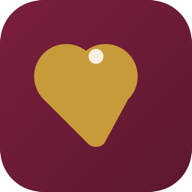
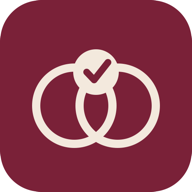
Add files via upload

diff --git a/index.html b/index.html
@@ -19,7 +19,7 @@
   <!-- ============ SETUP SCREEN (shown until js/config.js is filled in) ============ -->
   <div id="screen-setup" class="screen center-screen" hidden>
     <div class="auth-card">
-      <div class="auth-logo">💍</div>
+      <div class="auth-logo"><img src="Icons/logo-mark-transparent.svg" alt="" /></div>
       <h1>One-time setup needed</h1>
       <p class="hint">This app needs a (free) Firebase project to sync your guest list across devices.</p>
       <ol class="help-list">
@@ -37,7 +37,7 @@
   <!-- ============ AUTH SCREEN ============ -->
   <div id="screen-auth" class="screen center-screen" hidden>
     <div class="auth-card">
-      <div class="auth-logo">💍</div>
+      <div class="auth-logo"><img src="Icons/logo-mark-transparent.svg" alt="" /></div>
       <h1>Wedding Guest List</h1>
       <p class="hint" id="authSubtitle">Sign in to your family's guest list</p>
 
@@ -95,7 +95,7 @@
   <div id="screen-app" class="screen" hidden>
     <header class="app-header">
       <div class="brand">
-        <span class="brand-mark">❤</span>
+        <img class="brand-logo" src="icon.svg" alt="" />
         <span class="brand-text" id="brandText">Guest List</span>
         <span class="offline-dot" id="offlineDot" title="Offline — changes will sync later" hidden></span>
       </div>

diff --git a/styles.css b/styles.css
@@ -40,6 +40,7 @@ input,select,textarea,button{font-family:inherit;font-size:16px}
 }
 @keyframes fadeUp{from{opacity:0;transform:translateY(12px)}to{opacity:1;transform:translateY(0)}}
 .auth-logo{font-size:44px;margin-bottom:6px}
+.auth-logo img{width:72px;height:72px;display:inline-block}
 .auth-card h1{font-size:23px;margin:0 0 6px;font-weight:800}
 .auth-card form{display:flex;flex-direction:column;gap:10px;margin-top:16px}
 .auth-card input{padding:13px 15px;border:1px solid var(--line);border-radius:12px;background:#fff;width:100%}
@@ -65,7 +66,7 @@ input,select,textarea,button{font-family:inherit;font-size:16px}
 }
 .brand{display:flex;align-items:center;gap:8px;font-weight:700;font-size:17px;min-width:0}
 .brand-text{white-space:nowrap;overflow:hidden;text-overflow:ellipsis}
-.brand-mark{color:var(--gold)}
+.brand-logo{width:26px;height:26px;border-radius:7px;display:block;flex:0 0 auto}
 .header-count{font-size:12px;opacity:.9;white-space:nowrap}
 .offline-dot{width:9px;height:9px;border-radius:50%;background:var(--amber);flex:0 0 auto;box-shadow:0 0 0 3px rgba(201,138,22,.25)}
 

diff --git a/sw.js b/sw.js
@@ -6,7 +6,7 @@
    - Firebase/Google endpoints → NOT intercepted. Firestore has its own offline
      persistence; interfering with auth/firestore requests breaks them.
 */
-const CACHE = 'guest-list-v2';
+const CACHE = 'guest-list-v3';
 const JSPDF_URL = 'https://cdnjs.cloudflare.com/ajax/libs/jspdf/2.5.1/jspdf.umd.min.js';
 const ASSETS = [
   './',
@@ -15,6 +15,7 @@ const ASSETS = [
   './manifest.json',
   './icon.svg',
   './icon-192.png',
+  './Icons/logo-mark-transparent.svg',
   './js/app.js',
   './js/store.js',
   './js/firebase.js',